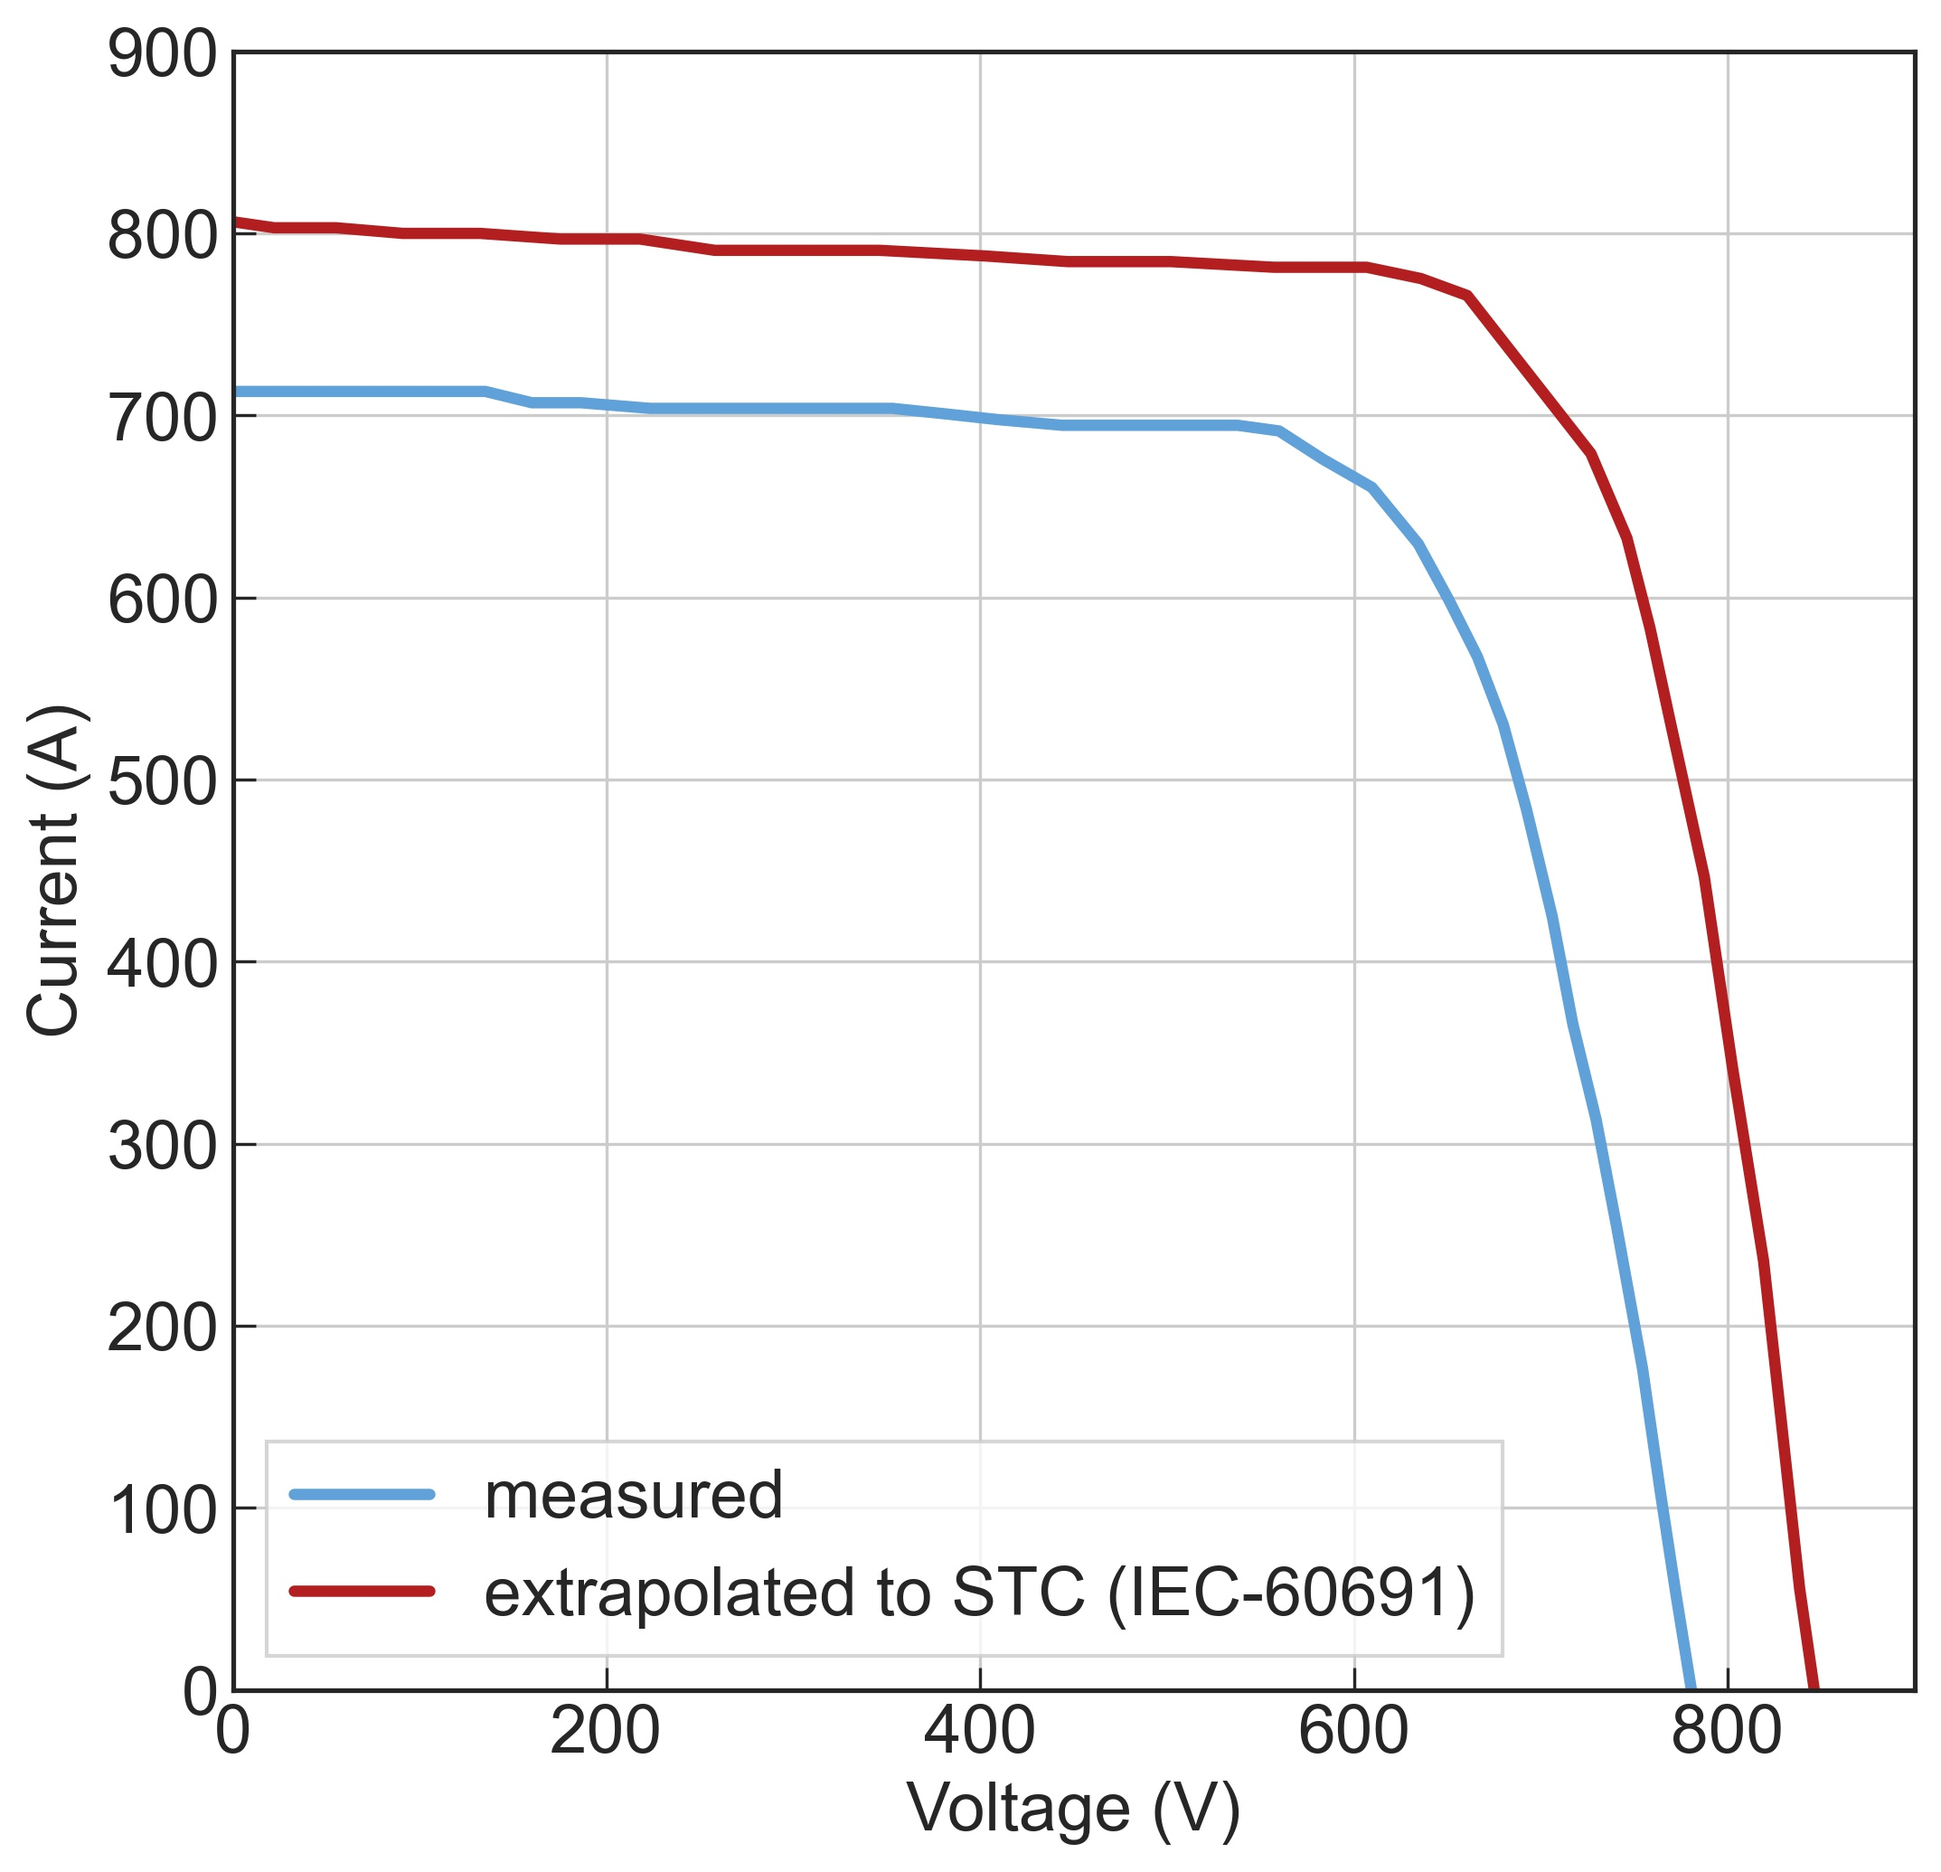
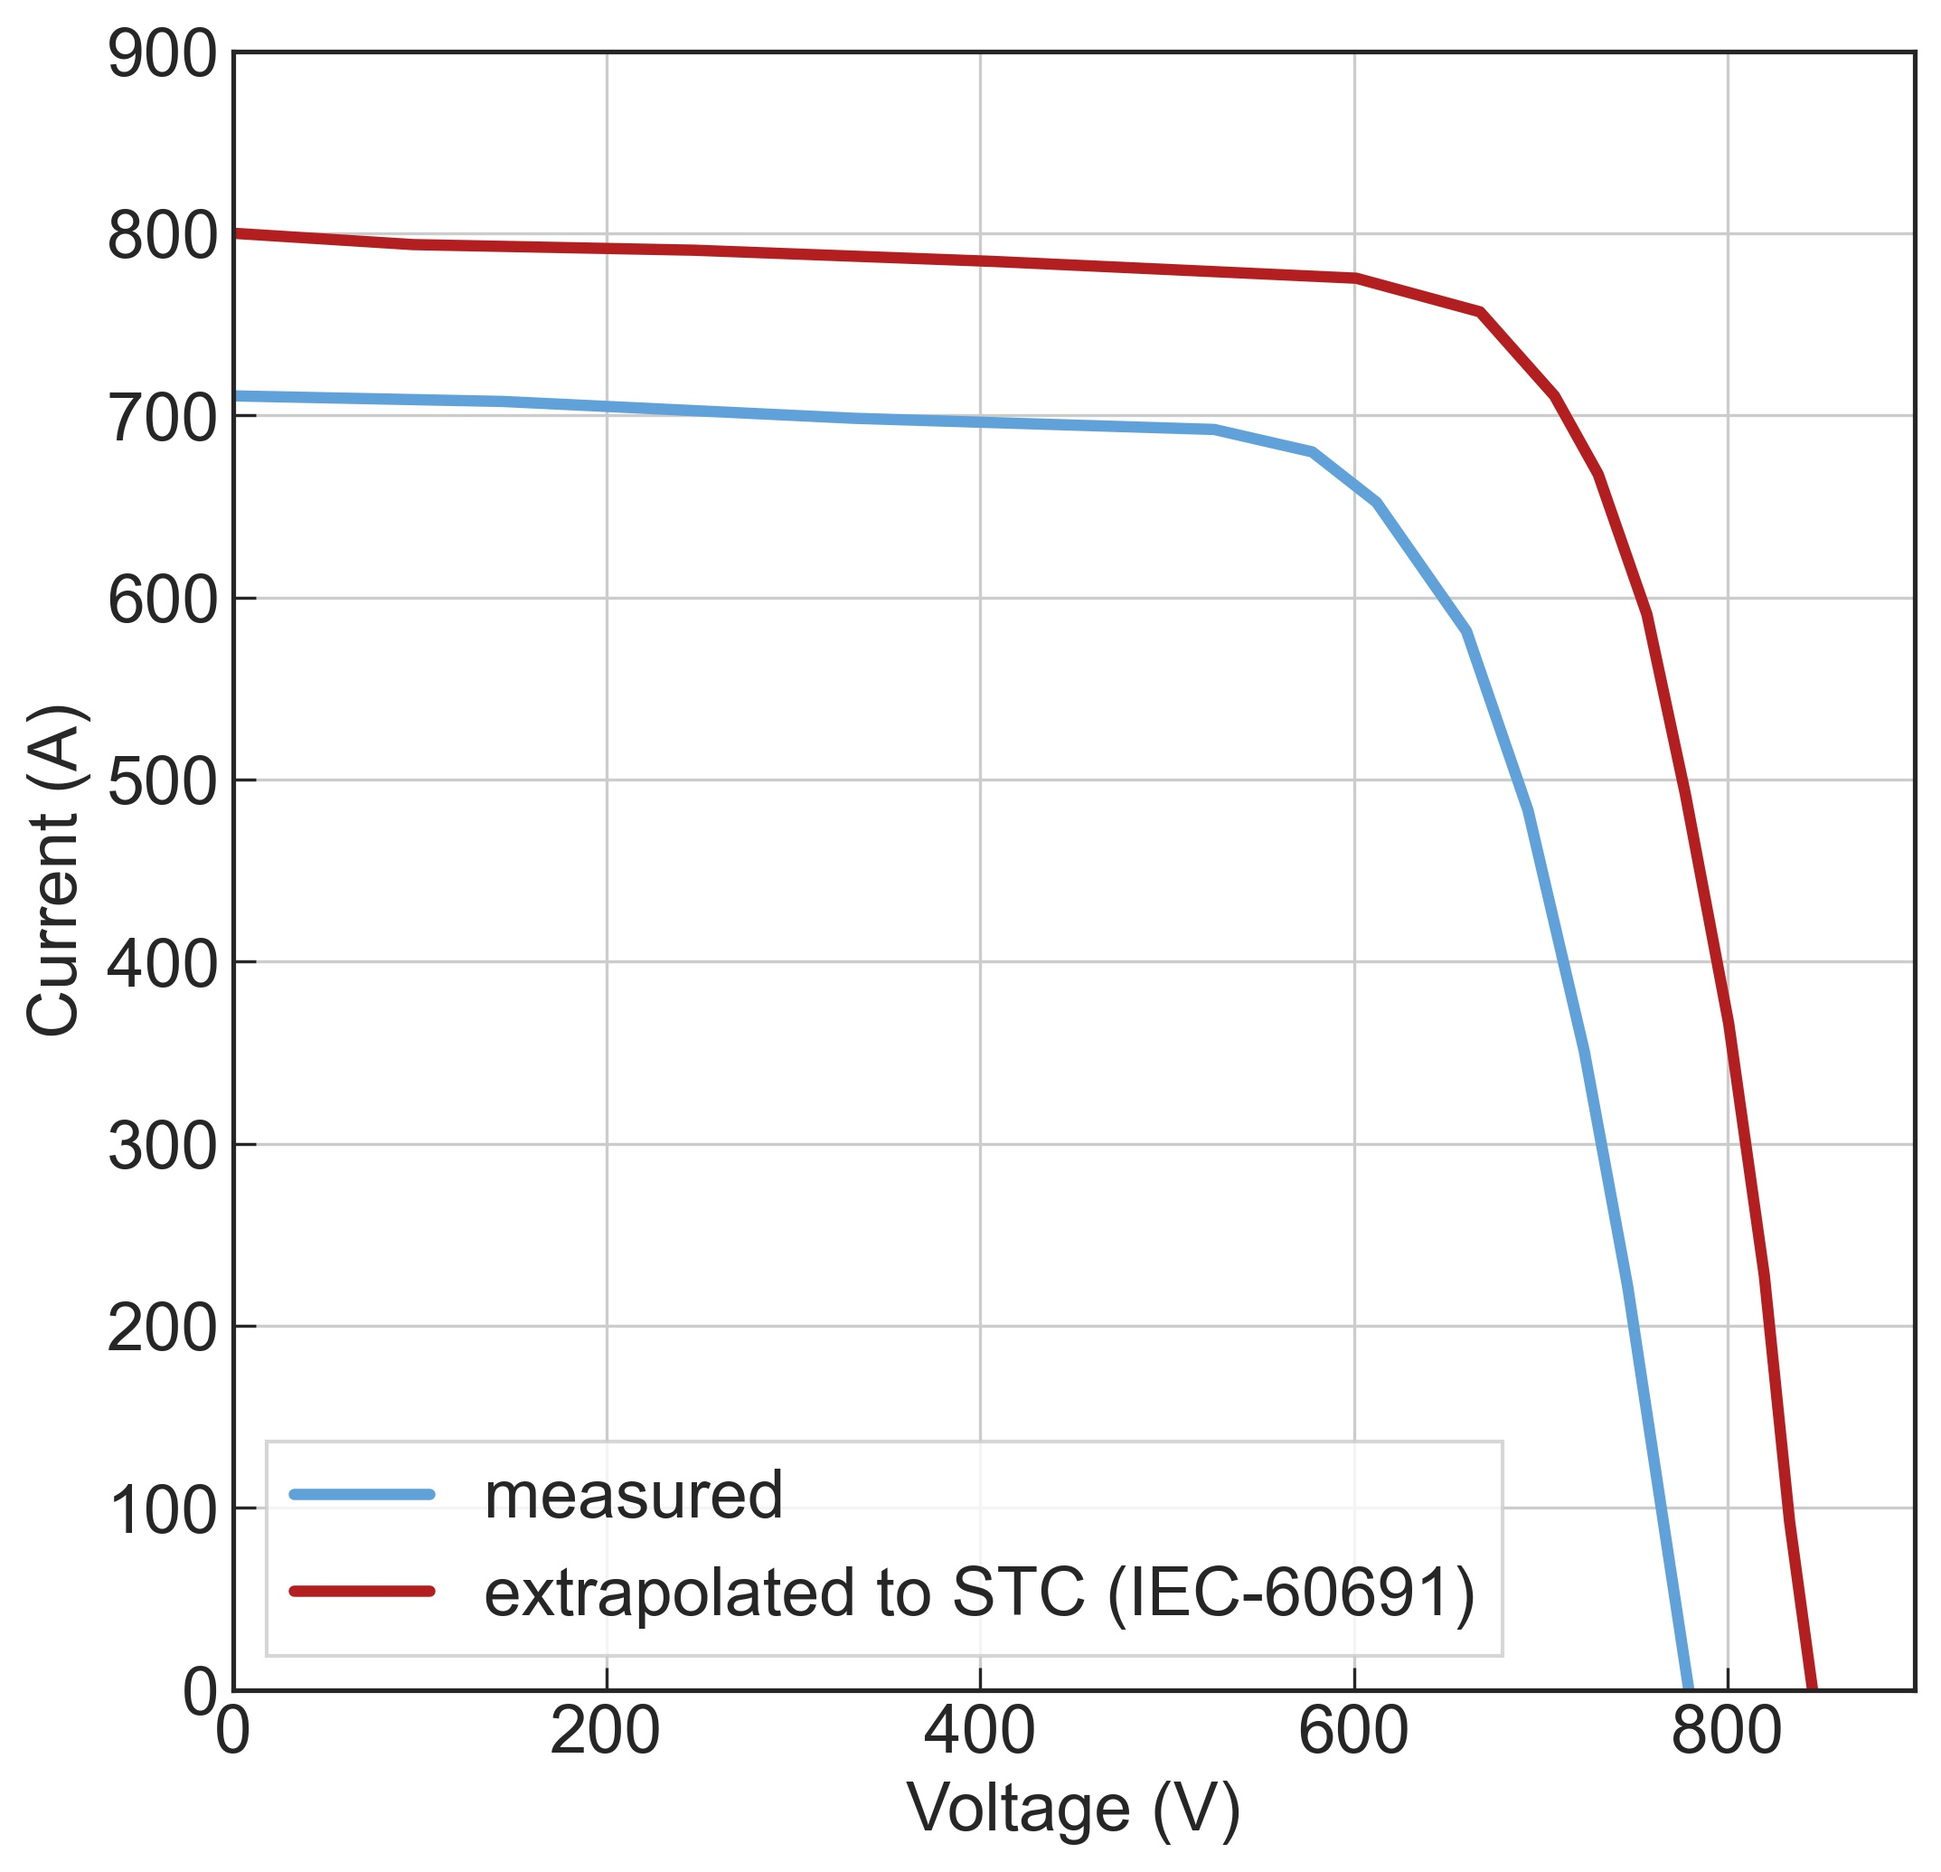
update figure IV curve extrapolation

diff --git a/Figures/Chapter_12/IV_curve_extrapolation.py b/Figures/Chapter_12/IV_curve_extrapolation.py
@@ -15,28 +15,19 @@ plt.style.use(['seaborn-ticks','../pv-textbook.mplstyle'])
 import yaml
 with open('../colors.yaml') as file:
     colors = yaml.load(file, Loader=yaml.FullLoader)
-V_measured = [0.0,106.2,135.2,160.0,186.2,
-              223.4,259.3,295.2,322.8,353.1,382.1,409.7,444.1,
-              478.6,509.0,537.9,560.0,583.4,609.7,634.5,651.0,
-              666.2,680.0, 692.4,706.2,717.2,729.7,740.7,754.5,
-              764.1,772.4,780.7]
 
-I_measured = [713.2,713.2,713.2,707.0,707.0,
-              703.9,703.9,703.9,703.9,703.9,700.8,697.7,694.6,
-              694.6,694.6,694.6,691.5,676.0,660.5,629.5,598.4,
-              567.4,530.2,483.7,424.8,365.9,313.2,254.3,176.7,
-              108.5,52.7,0]
 
-V_extrapolated =[1.4,22.1,55.2,91.0,132.4,175.2,217.9,257.9,
-                 292.4,346.2,402.8,446.9,502.1,557.2,606.9,
-                 635.9,660.7,726.9,746.2,758.6,769.7,787.6,
-                 802.8,819.3,829.0,838.6,846.9
-]
+V_measured = [0.00, 144.67, 332.24, 525.33, 577.72, 612.16, 660.31, 693.25, 
+              723.36, 746.59, 779.31]
 
-I_extrapolated =[806.2,803.1,803.1,800.0,800.0,796.9,796.9,
-                 790.7,790.7,790.7,787.6,784.5,784.5,781.4,
-                 781.4,775.2,765.9,679.1,632.6,582.9,530.2,
-                 446.5,341.1,235.7,145.7,55.8,-3.1]
+I_measured = [710.77,707.69, 698.46, 692.31, 680.00, 652.31, 581.54, 483.08, 
+              350.77, 221.54, 0.00]
+
+V_extrapolated = [1.38, 96.54, 246.88,406.87, 601.34, 667.51, 707.43, 730.81, 
+                  756.88, 777.40, 800.63, 819.70, 833.26, 845.52]
+
+I_extrapolated = [800.00, 793.85, 790.77, 784.62, 775.38, 756.92, 710.77, 
+                  667.69, 590.77, 492.31, 366.15, 227.69, 92.31, 0.00]
 
 plt.figure(figsize=(8, 8))
 gs1 = gridspec.GridSpec(1, 1)
